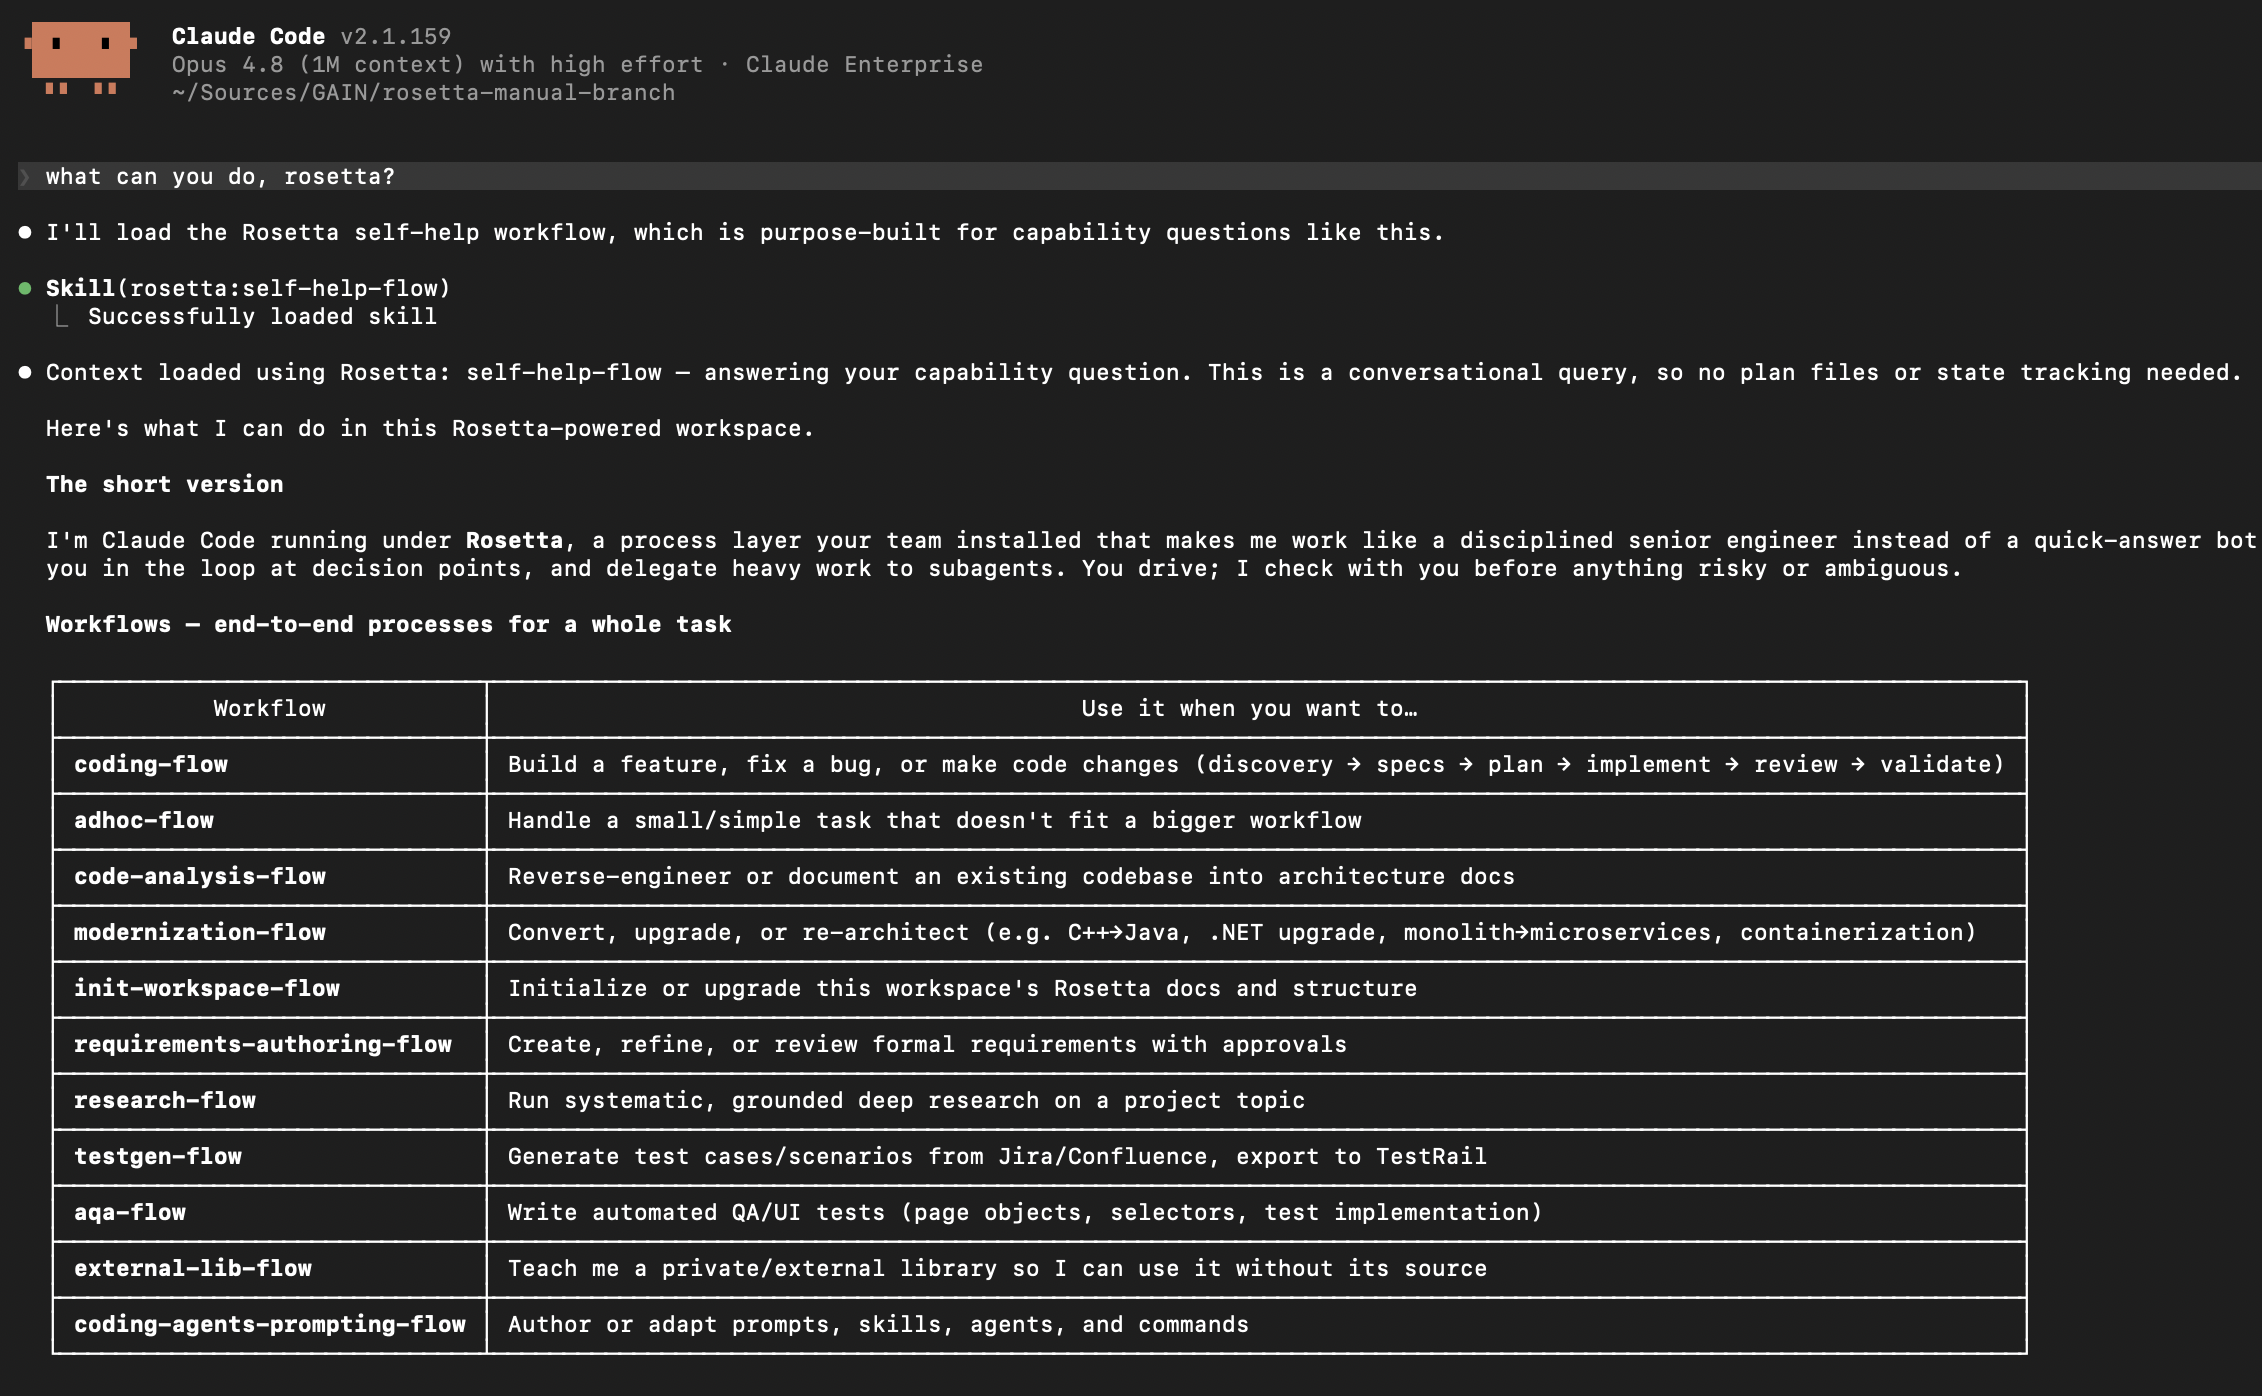
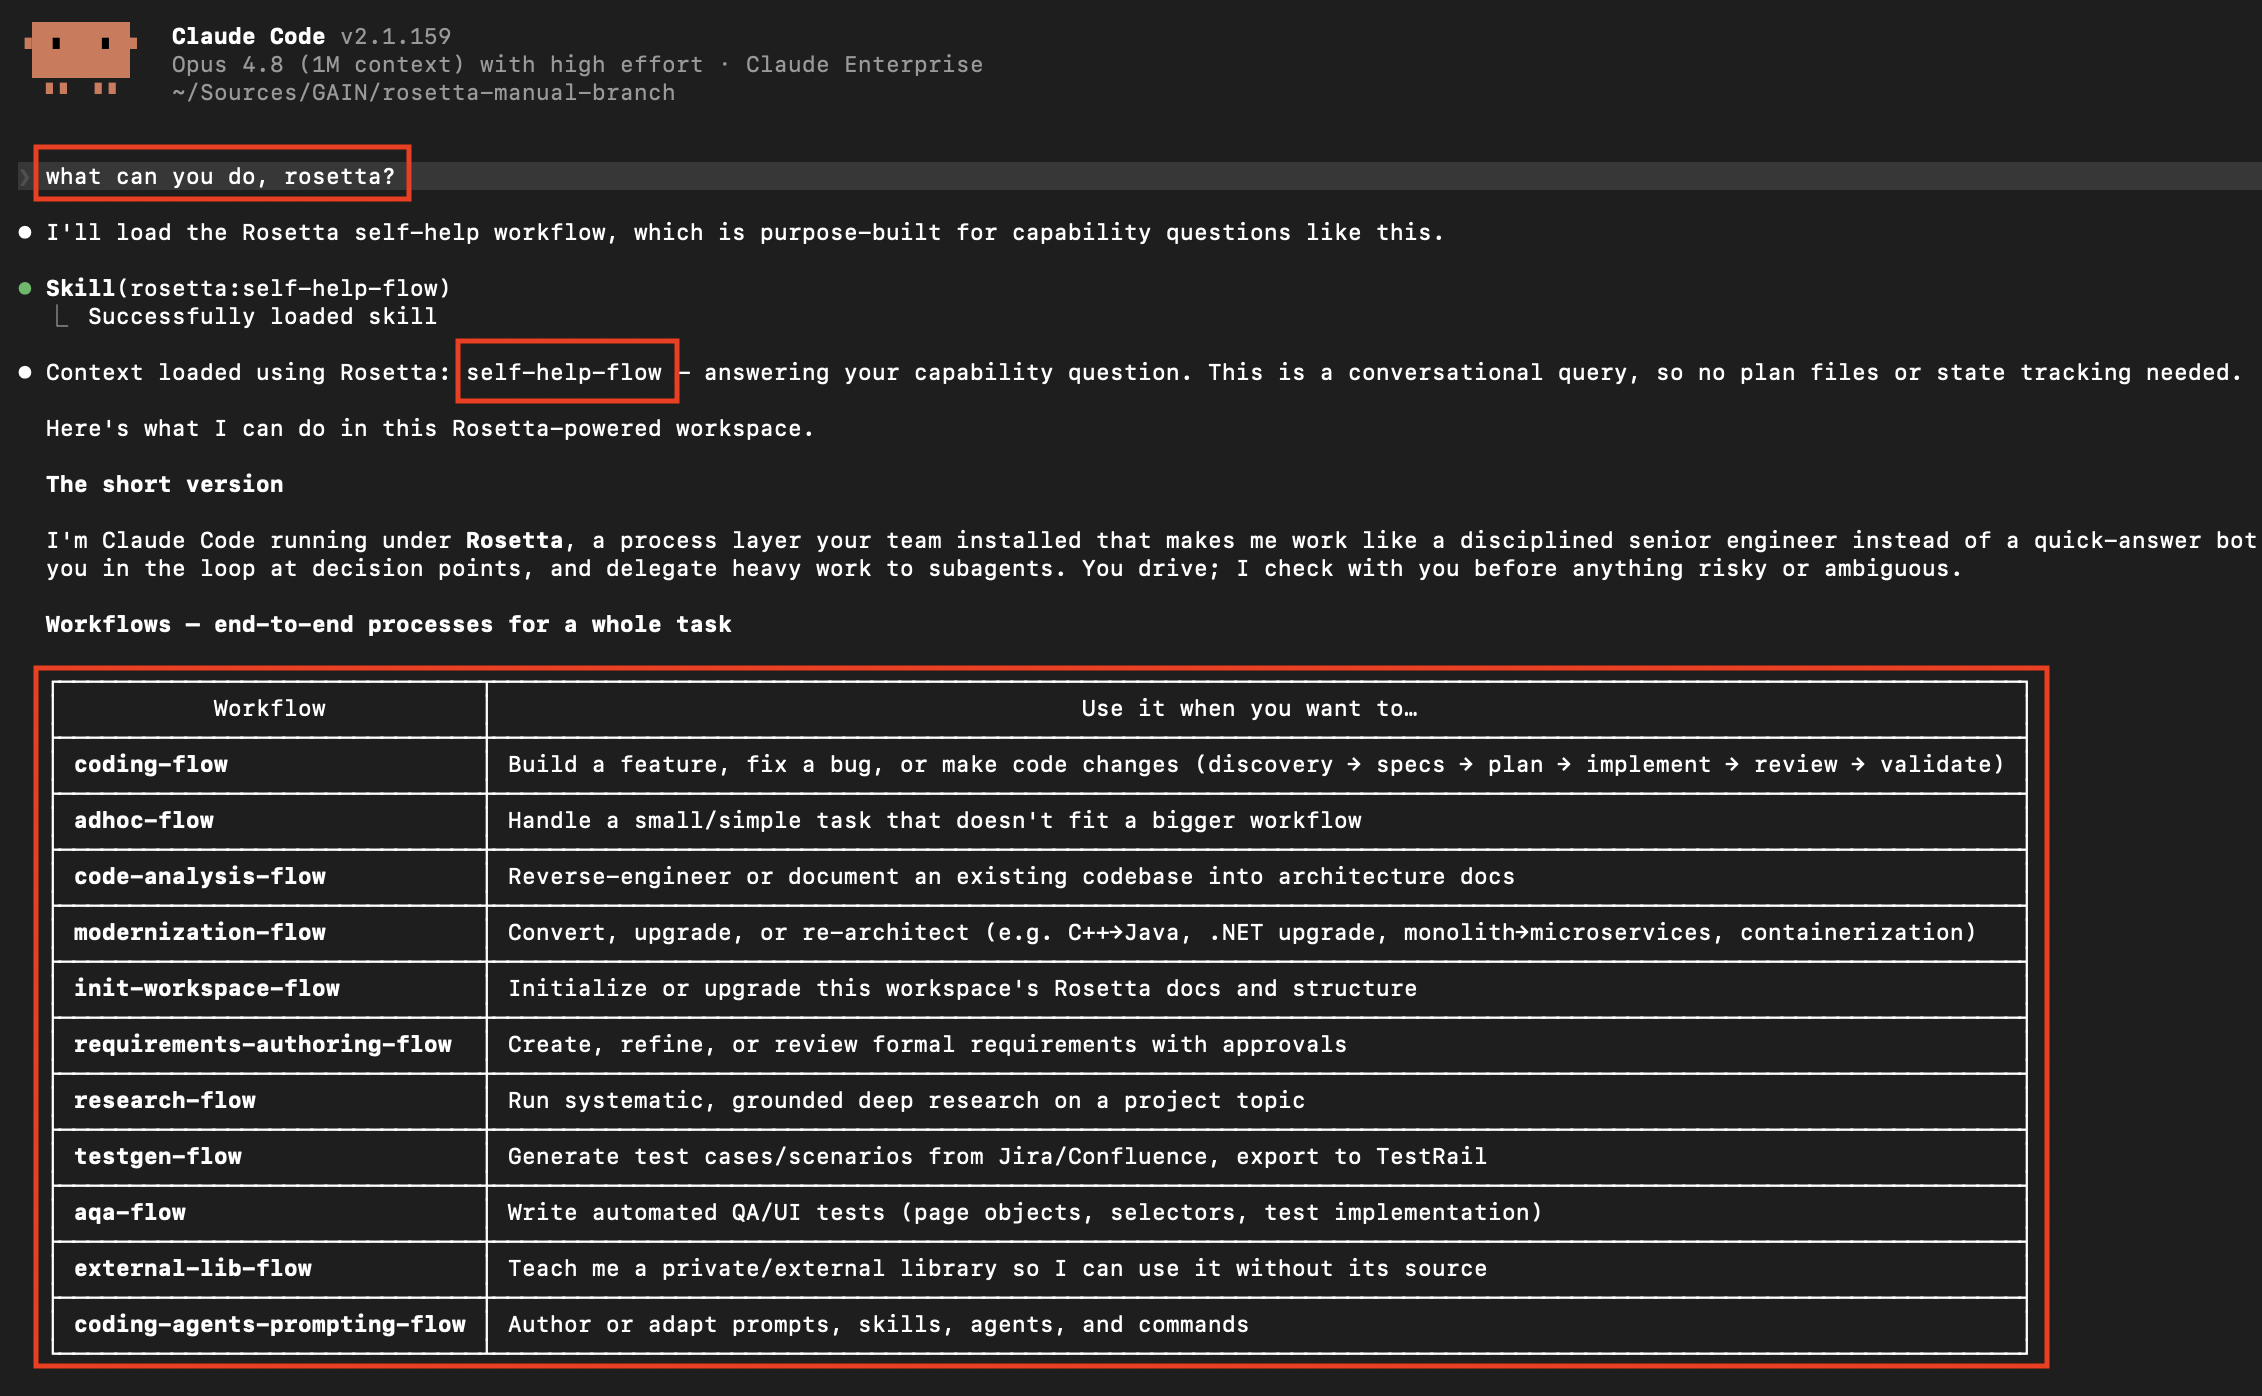
Enhance PLUGINS.md: add correct images for Claude Code and GitHub Copilot responses

diff --git a/PLUGINS.md b/PLUGINS.md
@@ -122,7 +122,11 @@ What can you do, Rosetta?
 
 The agent will follow Rosetta prompts and show Rosetta workflows and execute `self-help-flow` (see screenshots from different tools below):
 
+**Claude Code:**
+
 <img src="docs/images/Rosetta-ProperResponse.png" alt="Rosetta proper response in Claude Code" width="710"/>
+
+**GitHub Copilot:**
 
 <img src="docs/images/Rosetta-ProperResponse-Copilot.png" alt="Rosetta proper response in GitHub Copilot" width="710"/>
 
